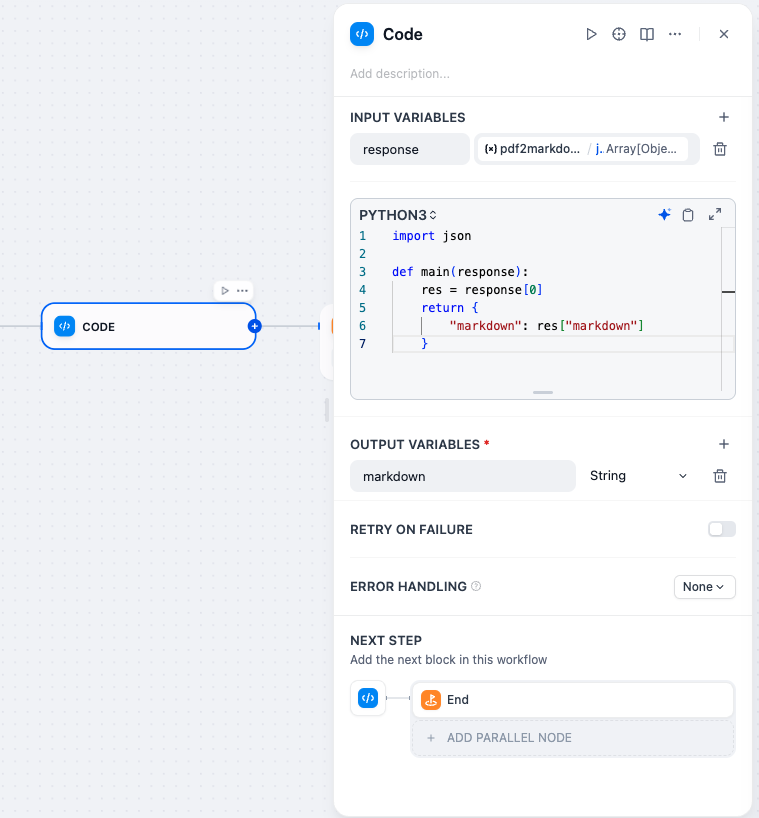
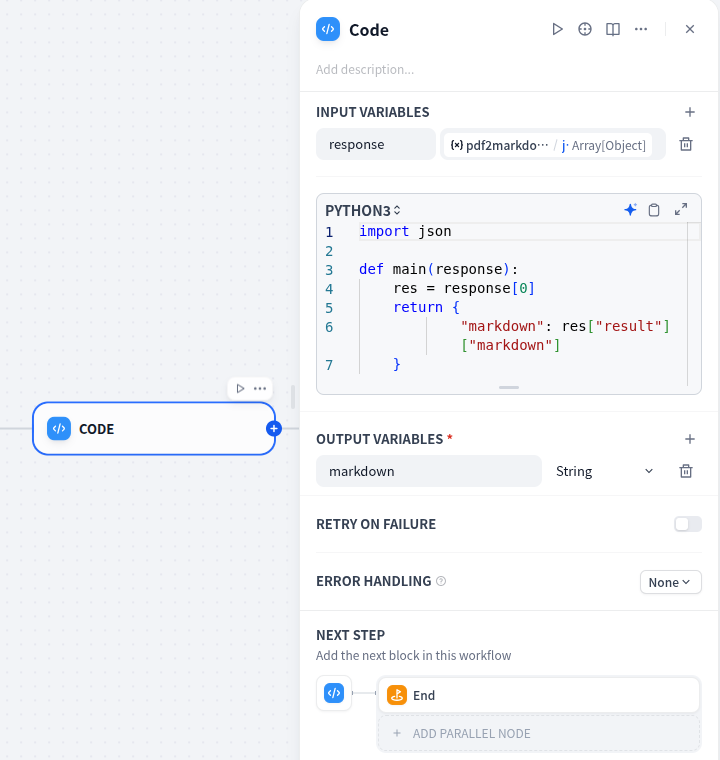
更新README_zh-CN.md, 返回原始json

diff --git a/tools/pdf2markdown.py b/tools/pdf2markdown.py
@@ -65,7 +65,7 @@ class Pdf2markdownTool(Tool):
                     "markdown": ""
                 })
             else:
-                yield self.create_json_message(response.json().get("result"))
+                yield self.create_json_message(response.json())
                 
         except Exception as e:
             yield self.create_json_message({

diff --git a/README.md b/README.md
@@ -33,7 +33,7 @@ import json
 def main(response):
     res = response[0]
     return {
-            "markdown": res["markdown"]
+            "markdown": res["result"]["markdown"]
     }
 ```
 

diff --git a/README_zh-CN.md b/README_zh-CN.md
@@ -33,7 +33,7 @@ import json
 def main(response):
     res = response[0]
     return {
-            "markdown": res["markdown"]
+            "markdown": res["result"]["markdown"]
     }
 ```
 
